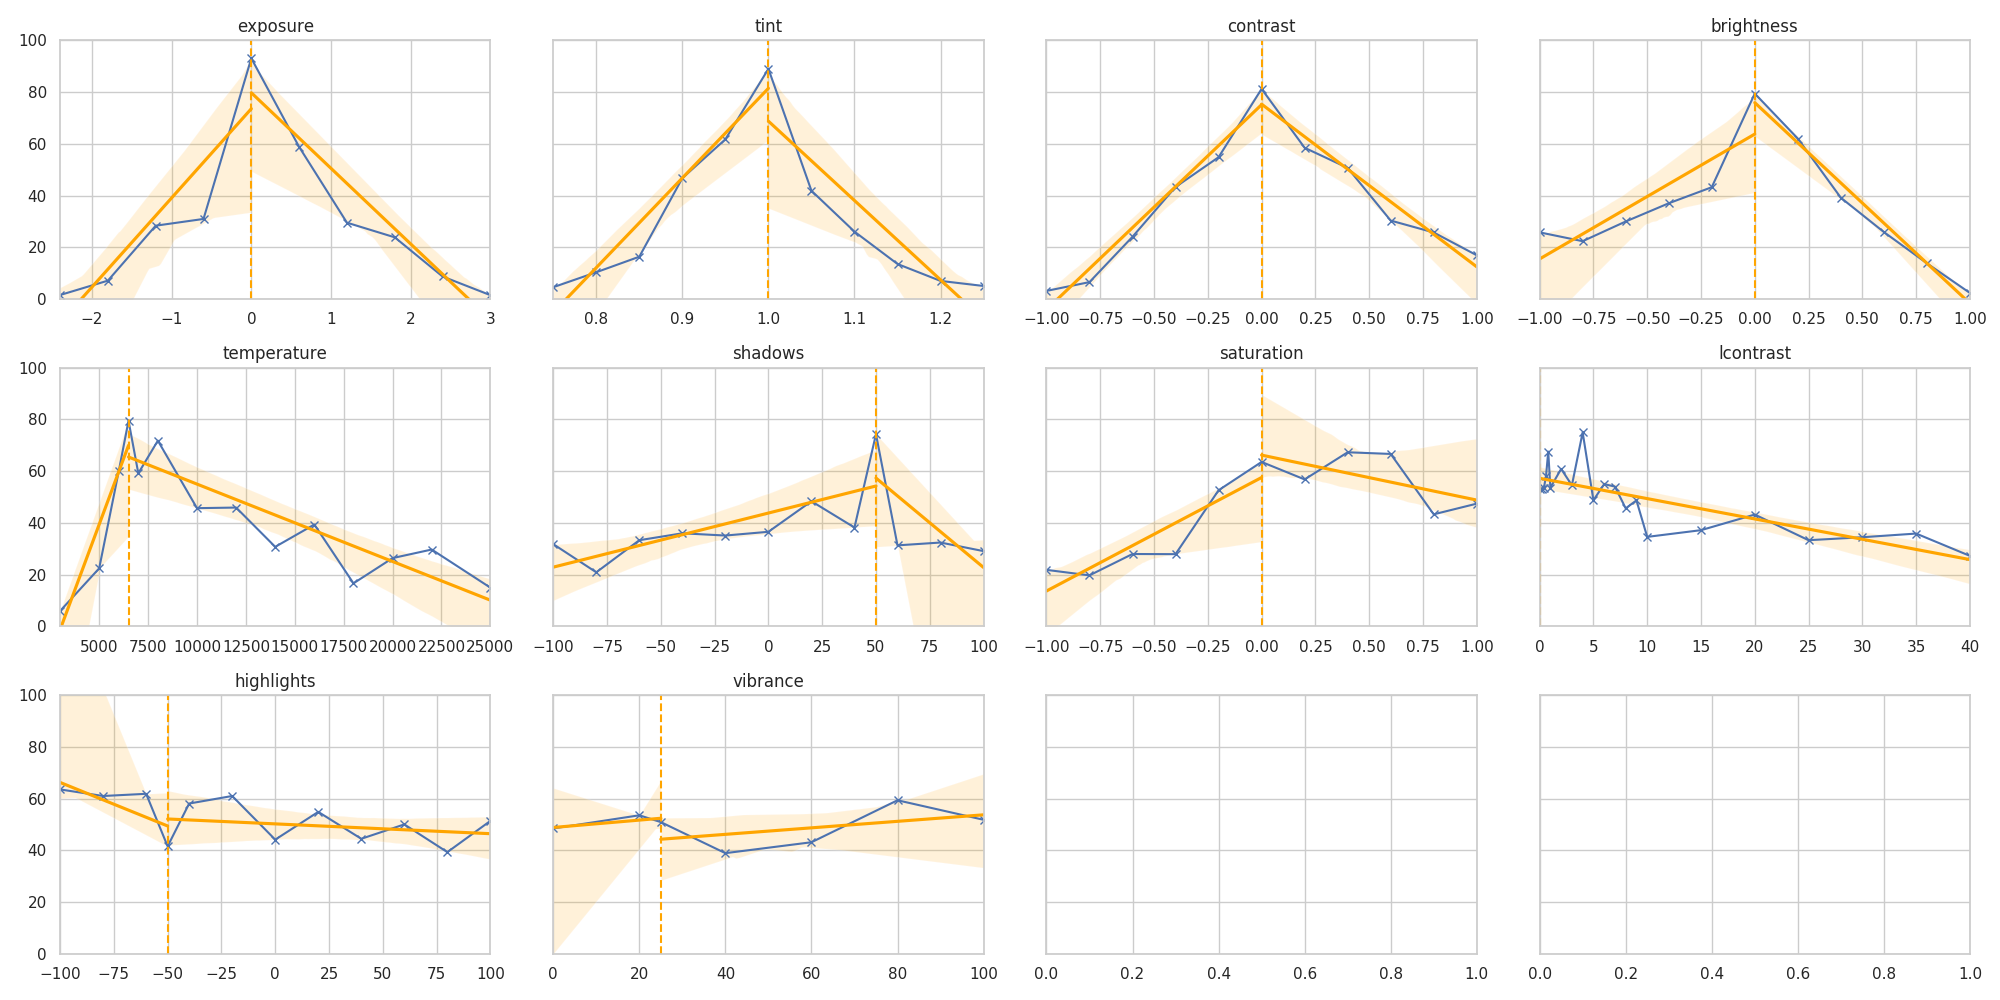
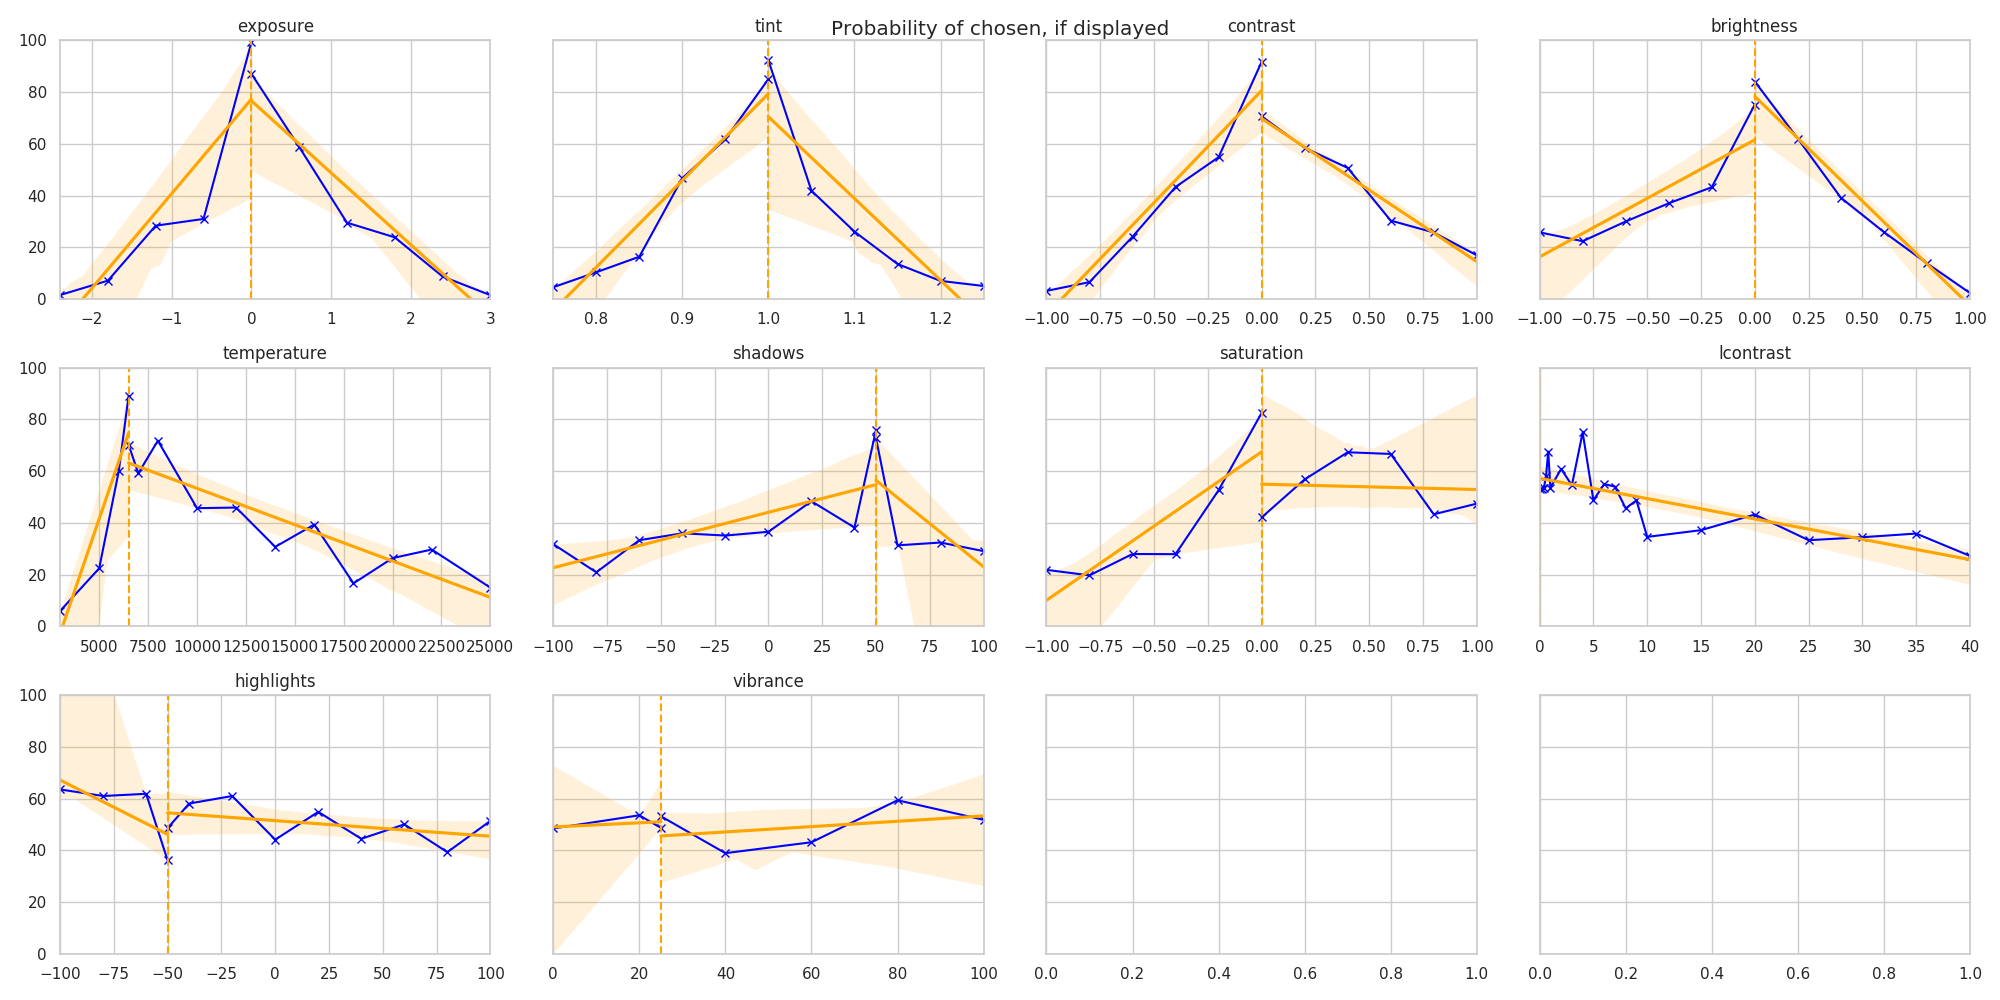
better plots

diff --git a/survey/analyser.py b/survey/analyser.py
@@ -1,3 +1,4 @@
+# %%
 import collections
 import json
 import math
@@ -15,13 +16,13 @@ sys.path.insert(0, ".")
 from edit_image import parameter_range
 
 sns.set(style="whitegrid")
-
+# %%
 submission_log = "/scratch/stud/pfister/NIAA/pexels/logs/submissions.log"
 # submission_log = "/home/stud/pfister/random.log"
 plot_dir = Path.home() / "eclipse-workspace" / "NIAA" / "analysis" / "survey"  # type: Path
 
 plot_dir.mkdir(parents=True, exist_ok=True)
-
+# %%
 try:
     r = redis.Redis(host="localhost", port=7000)
     memdata = r.info("memory")
@@ -36,8 +37,7 @@ try:
     print()
 except:
     print("no redis connection available => 'kctl port-forward svc/redis 7000:6379'")
-
-
+# %%
 with open(submission_log, mode="r") as subs_file:
     subs = subs_file.readlines()
 
@@ -56,14 +56,22 @@ print(f"{sub_df.hashval.count()} images compared in {sub_df.groupby('userid').us
 print(sub_df.groupby("chosen").chosen.count().to_string())
 print("---")
 print()
-
+# %%
 chosenDist = dict()
 chosenDict = dict()
 for key in parameter_range.keys():
     chosenDict[key] = collections.defaultdict(lambda: 0)
     chosenDist[key] = dict()
-    chosenDist[key]["chosen"] = collections.defaultdict(lambda: 0)
-    chosenDist[key]["displayed"] = collections.defaultdict(lambda: 0)
+    chosenDist[key]["chosenAll"] = collections.defaultdict(lambda: 0)
+    chosenDist[key]["displayedAll"] = collections.defaultdict(lambda: 0)
+    chosenDist[key]["chosenOrig"] = collections.defaultdict(lambda: 0)
+    chosenDist[key]["displayedOrig"] = collections.defaultdict(lambda: 0)
+
+    chosenDist[key]["chosenOrigPos"] = 0
+    chosenDist[key]["displayedOrigPos"] = 0
+    chosenDist[key]["chosenOrigNeg"] = 0
+    chosenDist[key]["displayedOrigNeg"] = 0
+
     chosenDist[key]["posCorrelationBase"] = collections.defaultdict(lambda: 0)
     chosenDist[key]["negCorrelationBase"] = collections.defaultdict(lambda: 0)
     chosenDist[key]["posCorrelation"] = collections.defaultdict(lambda: 0)
@@ -182,13 +190,33 @@ for _, row in sub_df.iterrows():
         else:
             raise ("hä")
 
-        chosenDist[parameter]["displayed"][lChange] += 1
-        chosenDist[parameter]["displayed"][rChange] += 1
+        chosenDist[parameter]["displayedAll"][lChange] += 1
+        chosenDist[parameter]["displayedAll"][rChange] += 1
 
         if chosen == "leftImage":
-            chosenDist[parameter]["chosen"][lChange] += 1
+            chosenDist[parameter]["chosenAll"][lChange] += 1
         else:
-            chosenDist[parameter]["chosen"][rChange] += 1
+            chosenDist[parameter]["chosenAll"][rChange] += 1
+
+        if smallChangeIsOriginal:
+            chosenDist[parameter]["displayedOrig"][lChange] += 1
+            chosenDist[parameter]["displayedOrig"][rChange] += 1
+
+            if changeSign == "+":
+                chosenDist[parameter]["displayedOrigPos"] += 1
+            elif changeSign == "-":
+                chosenDist[parameter]["displayedOrigNeg"] += 1
+
+            if smallerChosen:
+                if changeSign == "+":
+                    chosenDist[parameter]["chosenOrigPos"] += 1
+                elif changeSign == "-":
+                    chosenDist[parameter]["chosenOrigNeg"] += 1
+
+            if chosen == "leftImage":
+                chosenDist[parameter]["chosenOrig"][lChange] += 1
+            else:
+                chosenDist[parameter]["chosenOrig"][rChange] += 1
 
     if not bothSame:
         if smallChangeIsOriginal:
@@ -203,9 +231,15 @@ for _, row in sub_df.iterrows():
                     chosenDist[parameter]["posCorrelation"][abs(largeChange - smallChange)] += 1
                 elif changeSign == "-":
                     chosenDist[parameter]["negCorrelation"][abs(largeChange - smallChange)] += 1
-
+# %%
 f, axs = plt.subplots(3, 4, sharey=True, figsize=(20, 10))
 axs = [x for sublist in axs for x in sublist]  # flatten
+f_orig, axs_orig = plt.subplots(3, 4, sharey=True, figsize=(20, 10))
+axs_orig = [x for sublist in axs_orig for x in sublist]  # flatten
+
+f.suptitle("Probability of chosen, if displayed")
+f_orig.suptitle("Probability of chosen, if displayed (original image was present)")
+
 params = sorted(parameter_range.keys(), key=lambda k: binom_test(chosenDict[k]["smaller"], n=chosenDict[k]["smaller"] + chosenDict[k]["larger"]))
 for i, key in enumerate(params):
     print(f"{key}:\t{'{:.1f}%'.format(sum(chosenDict[key].values()) / sum([sum(val.values()) for val in chosenDict.values()])*100)}\t| {sum(chosenDict[key].values())}")
@@ -219,23 +253,27 @@ for i, key in enumerate(params):
     print(f"\tnot unsure but equal:\t{'{:.1f}%'.format(chosenDict[key]['not_unsure_eq'] / sum(chosenDict[key].values()) * 100)}\t| {chosenDict[key]['not_unsure_eq']}")
 
     print("\tcorr. for pos. changes | one image original | larger changes == more clicks for original image?:")
+    print(sorted(chosenDist[key]["posCorrelationBase"].items(), key=lambda k: k[0]))
     print("\t\tpearson:\tcorr. coeff: {:05.3f} p: {:05.4f}".format(*pearsonr(*list(zip(*chosenDist[key]["posCorrelationBase"].items())))))
     print("\t\tspearman:\tcorr. coeff: {:05.3f} p: {:05.4f}".format(*spearmanr(*list(zip(*chosenDist[key]["posCorrelationBase"].items())))))
     print("\t\tlinregr:\tslope: {:05.3f} intercept: {:05.3f} corr. coeff: {:05.3f} p: {:05.4f} stderr: {:05.3f}".format(*linregress(*list(zip(*chosenDist[key]["posCorrelationBase"].items())))))
 
     if len(chosenDist[key]["negCorrelationBase"]) != 0 and key != "vibrance":
         print("\tcorr. for neg. changes | one image original | larger changes == more clicks for original image?:")
+        print(sorted(chosenDist[key]["negCorrelationBase"].items(), key=lambda k: k[0]))
         print("\t\tpearson:\tcorr. coeff: {:05.3f} p: {:05.4f}".format(*pearsonr(*list(zip(*chosenDist[key]["negCorrelationBase"].items())))))
         print("\t\tspearman:\tcorr. coeff: {:05.3f} p: {:05.4f}".format(*spearmanr(*list(zip(*chosenDist[key]["negCorrelationBase"].items())))))
         print("\t\tlinregr:\tslope: {:05.3f} intercept: {:05.3f} corr. coeff: {:05.3f} p: {:05.4f} stderr: {:05.3f}".format(*linregress(*list(zip(*chosenDist[key]["negCorrelationBase"].items())))))
 
     print("\tcorr. for pos. changes | all | larger changes == more clicks for original image?:")
+    print(sorted(chosenDist[key]["posCorrelation"].items(), key=lambda k: k[0]))
     print("\t\tpearson:\tcorr. coeff: {:05.3f} p: {:05.4f}".format(*pearsonr(*list(zip(*chosenDist[key]["posCorrelation"].items())))))
     print("\t\tspearman:\tcorr. coeff: {:05.3f} p: {:05.4f}".format(*spearmanr(*list(zip(*chosenDist[key]["posCorrelation"].items())))))
     print("\t\tlinregr:\tslope: {:05.3f} intercept: {:05.3f} corr. coeff: {:05.3f} p: {:05.4f} stderr: {:05.3f}".format(*linregress(*list(zip(*chosenDist[key]["posCorrelation"].items())))))
 
     if len(chosenDist[key]["negCorrelation"]) != 0 and key != "vibrance":
         print("\tcorr. for neg. changes | all | larger changes == more clicks for original image?:")
+        print(sorted(chosenDist[key]["negCorrelation"].items(), key=lambda k: k[0]))
         print("\t\tpearson:\tcorr. coeff: {:05.3f} p: {:05.4f}".format(*pearsonr(*list(zip(*chosenDist[key]["negCorrelation"].items())))))
         print("\t\tspearman:\tcorr. coeff: {:05.3f} p: {:05.4f}".format(*spearmanr(*list(zip(*chosenDist[key]["negCorrelation"].items())))))
         print("\t\tlinregr:\tslope: {:05.3f} intercept: {:05.3f} corr. coeff: {:05.3f} p: {:05.4f} stderr: {:05.3f}".format(*linregress(*list(zip(*chosenDist[key]["negCorrelation"].items())))))
@@ -249,18 +287,26 @@ for i, key in enumerate(params):
 
     axs[i].set_title(key)
 
-    for k, v in sorted(chosenDist[key]["chosen"].items(), key=lambda k: k[0]):
+    x_pos.append(parameter_range[key]["default"])
+    y_pos.append((chosenDist[key]["chosenOrigPos"] / chosenDist[key]["displayedOrigPos"]) * 100)
+
+    for k, v in sorted(chosenDist[key]["chosenAll"].items(), key=lambda k: k[0]):
         x.append(k)
-        y.append((chosenDist[key]["chosen"][k] / chosenDist[key]["displayed"][k]) * 100)
+        y.append((chosenDist[key]["chosenAll"][k] / chosenDist[key]["displayedAll"][k]) * 100)
 
-        if k >= parameter_range[key]["default"] or math.isclose(k, parameter_range[key]["default"]):
+        if k > parameter_range[key]["default"]:
             x_pos.append(k)
-            y_pos.append((chosenDist[key]["chosen"][k] / chosenDist[key]["displayed"][k]) * 100)
-        if k <= parameter_range[key]["default"] or math.isclose(k, parameter_range[key]["default"]):
+            y_pos.append((chosenDist[key]["chosenAll"][k] / chosenDist[key]["displayedAll"][k]) * 100)
+        if k < parameter_range[key]["default"]:
             x_neg.append(k)
-            y_neg.append((chosenDist[key]["chosen"][k] / chosenDist[key]["displayed"][k]) * 100)
+            y_neg.append((chosenDist[key]["chosenAll"][k] / chosenDist[key]["displayedAll"][k]) * 100)
 
-    axs[i].plot(x, y, "-x", label="probability of chosen if displayed")
+    if len(x_neg) > 1:
+        x_neg.append(parameter_range[key]["default"])
+        y_neg.append((chosenDist[key]["chosenOrigNeg"] / chosenDist[key]["displayedOrigNeg"]) * 100)
+
+    axs[i].plot(x_pos, y_pos, "-x", color="blue", label="probability of chosen if displayed")
+    axs[i].plot(x_neg, y_neg, "-x", color="blue")
     axs[i].axvline(x=parameter_range[key]["default"], linestyle="--", color="orange", label="original image")
 
     sns.regplot(x_pos, y_pos, scatter=False, color="orange", label="linear regression", ax=axs[i])
@@ -268,15 +314,56 @@ for i, key in enumerate(params):
         sns.regplot(x_neg, y_neg, scatter=False, color="orange", ax=axs[i])
 
     axs[i].set_ylim(bottom=0, top=100)
+
+    x = []
+    y = []
+    x_pos = []
+    y_pos = []
+    x_neg = []
+    y_neg = []
+
+    axs_orig[i].set_title(key)
+
+    x_pos.append(parameter_range[key]["default"])
+    y_pos.append((chosenDist[key]["chosenOrigPos"] / chosenDist[key]["displayedOrigPos"]) * 100)
+
+    for k, v in sorted(chosenDist[key]["chosenOrig"].items(), key=lambda k: k[0]):
+        x.append(k)
+        y.append((chosenDist[key]["chosenOrig"][k] / chosenDist[key]["displayedOrig"][k]) * 100)
+
+        if k > parameter_range[key]["default"]:
+            x_pos.append(k)
+            y_pos.append((chosenDist[key]["chosenOrig"][k] / chosenDist[key]["displayedOrig"][k]) * 100)
+        if k < parameter_range[key]["default"]:
+            x_neg.append(k)
+            y_neg.append((chosenDist[key]["chosenOrig"][k] / chosenDist[key]["displayedOrig"][k]) * 100)
+
+    if len(x_neg) > 1:
+        x_neg.append(parameter_range[key]["default"])
+        y_neg.append((chosenDist[key]["chosenOrigNeg"] / chosenDist[key]["displayedOrigNeg"]) * 100)
+
+    axs_orig[i].plot(x_pos, y_pos, "-x", color="blue", label="probability of chosen if displayed")
+    axs_orig[i].plot(x_neg, y_neg, "-x", color="blue")
+    axs_orig[i].axvline(x=parameter_range[key]["default"], linestyle="--", color="orange", label="original image")
+
+    sns.regplot(x_pos, y_pos, scatter=False, color="orange", label="linear regression", ax=axs_orig[i])
+    if len(x_neg) > 1:
+        sns.regplot(x_neg, y_neg, scatter=False, color="orange", ax=axs_orig[i])
+
+    axs_orig[i].set_ylim(bottom=0, top=100)
+
     print()
 
-plt.tight_layout()
-plt.savefig(plot_dir / f"dist.png")
-plt.clf()
+f.tight_layout()
+f.savefig(plot_dir / f"dist.png")
+
+f_orig.tight_layout()
+f_orig.savefig(plot_dir / f"dist_orig.png")
+
 
 print("---")
 print()
-
+# %%
 plt.figure()
 print("decision duration:")
 durations = (sub_df.submitTime - sub_df.loadTime).astype("timedelta64[s]")
@@ -294,7 +381,7 @@ plt.clf()
 
 print("---")
 print()
-
+# %%
 plt.figure()
 print("useragent distribution:")
 useragents = []
@@ -310,8 +397,7 @@ print(os_count)
 print(dist_count)
 print("---")
 print()
-
-
+# %%
 print("Top 5 longest sessions:")
 usercount = sub_df[["userid", "hashval"]].rename(columns={"hashval": "count"}).groupby("userid").count()
 print(usercount.nlargest(5, "count"))
@@ -326,10 +412,10 @@ plt.clf()
 
 print("---")
 print()
-
-
+# %%
 print("3 most recent comparisons:")
 print(sub_df.tail(3))
 
 print("---")
 print()
+# %%
